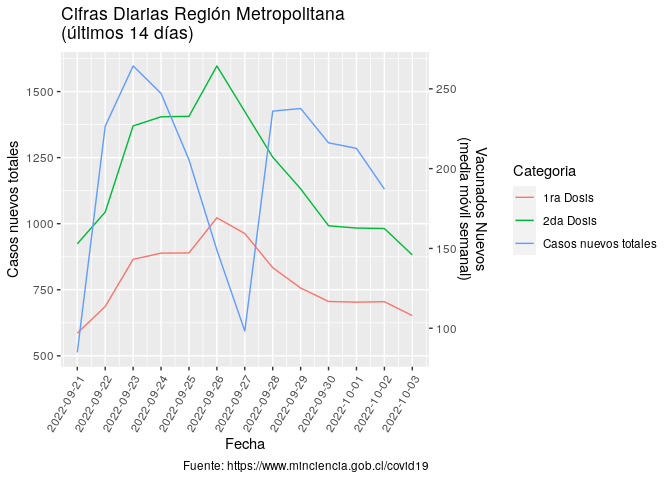
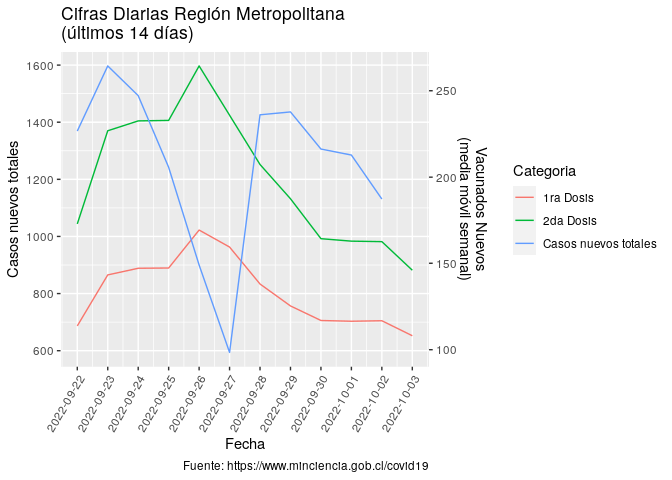
Re-build Rmarkdown files

diff --git a/README.md b/README.md
@@ -3,7 +3,7 @@
 
 Ejemplo de uso de total\_casos de COVID recopilados por el Ministerio de
 Ciencia de Chile <https://www.minciencia.gob.cl/covid19>. Última
-actualización: 2022-10-04
+actualización: 2022-10-05
 
 ## Visualización desde el comienzo de la pandemia
 
